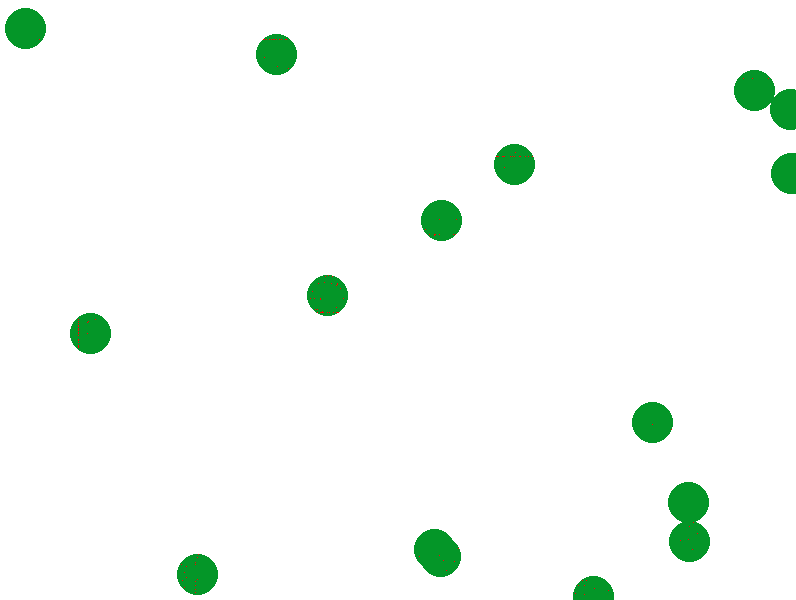
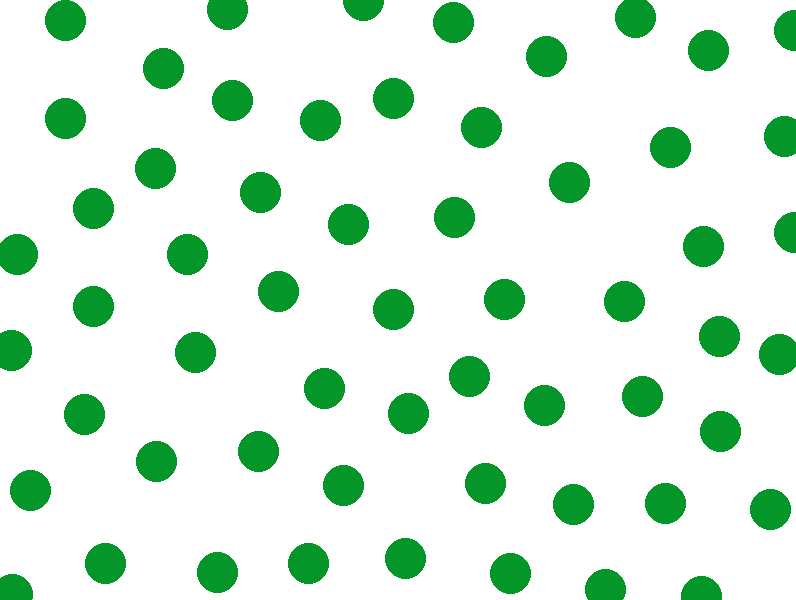
this is working! my poisson algorithm is super fast.

diff --git a/seurat.py b/seurat.py
@@ -5,48 +5,42 @@ import math
 import numpy as np
 import time
 
-def check_candidate(imagematrix, x_bound, y_bound, x0, y0, circle_radius, circle_mindist):
+def has_neighbors(imagematrix, x_bound, y_bound, x0, y0, circle_radius, circle_mindist):
     """
-    check whether a given point has any neighbors. Returns False if so.
+    check whether a given point has any neighbors. Returns True if so.
     """
     # print x_bound, y_bound, x0, y0, circle_radius, circle_mindist
     # grid check for the moment instead of the maximum efficiency perimeter check,
     # because i'm lazy. gonna see if this is fast enough
+    # print circle_radius
     
-    for x in     xrange(clip(x0 - circle_mindist, x_bound), clip(x0 + circle_mindist, x_bound), circle_radius - 1):
-        for y in xrange(clip(y0 - circle_mindist, y_bound), clip(y0 + circle_mindist, y_bound), circle_radius - 1):
+    # trigonometry: this is as large as you can space out the points (in a grid) while intersecting any circle placed on them
+    stepsize = int(math.floor(2**0.5 * circle_radius))
+    
+    # we add the last element to make sure we exhaust the entire relevant range
+    x_range = range(clip(x0 - circle_mindist, x_bound), clip(x0 + circle_mindist, x_bound), stepsize) + [clip(x0 + circle_mindist, x_bound)]
+    for x in x_range:
+        height = int(math.ceil((circle_mindist**2 - (x-x0)**2 )**0.5))
+        y_range = range(clip(y0 - height, y_bound), clip(y0 + height, y_bound), stepsize) + [clip(y0 + height, y_bound)]
+
+        for y in y_range:
             if np.isnan(imagematrix[x][y][0]):
+                #print imagematrix[x][y]
                 continue
             else:
                 # we didnt actually check if the datapoint is in the circle yet.
                 # we're doing this grid search so we have to.
+                # imagematrix[x][y] = [255,0,0]
+                return True
+                """
                 if ((x-x0)**2 + (y-y0)**2)**0.5 <= circle_mindist:
-                    imagematrix[x][y] = [255,0,0]
-                    return False
+
                 else:
+                    print imagematrix[x][y]
+                    imagematrix[x][y] = [0,0,255]
                     continue
-    
-    """
-    # we use a generator to iteratively check the points on the perimeter
-    # rather than generating them all at once, which would take much longer. 
-    #print ">>>", x_bound, y_bound
-    
-    for coords in circle_perimeter(x_bound, y_bound, x0, y0, radius):
-        for (x,y) in coords:
-            # we set all pixels in the imagematrix to None at first.
-            if np.isnan(imagematrix[x][y][0]):
-                #imagematrix[x][y] = [0,0,255]
-                continue
-            else:
-                imagematrix[x][y] = [255,0,0]
-                return False
-    
-    # gotta check inside as well
-    if not np.isnan(imagematrix[x0][y0][0]):
-        return False
-    return True
-    """
-    return True
+                """
+    return False
 
 def generate_random_point_around(seed, lower_bound_radius, upper_bound_radius):
     """
@@ -76,16 +70,20 @@ def get_poisson_points(image, mindist, radius):
     while to_process:
         pt = to_process.pop(random.randrange(len(to_process)))
         for _ in range(30):
-            new_point = generate_random_point_around(pt, r+mindist, 2*(r+mindist))
-            if (0 <= new_point[0] < h) and (0 <= new_point[1] < w) and check_candidate(output, h, w, new_point[0], new_point[1], radius, mindist):
+            new_point = generate_random_point_around(pt, (2*r)+mindist, (3*r)+mindist)
+            if (0 <= new_point[0] < h) and (0 <= new_point[1] < w) and (not has_neighbors(output, h, w, new_point[0], new_point[1], radius, radius+mindist)):
                 to_process.append(new_point)
-                circle_fill(output, h, w, new_point[0], new_point[1], radius)
+                circle_fill(output, h, w, new_point[0], new_point[1], 2*radius)
 
+    """
+    print    output.shape
     output = output.reshape((h,w,3))
+    print output.shape
+    """
     return output
 
 r = 20
-mindist = 250
+mindist = 50
 
 opened = Image.open("bear.jpg")
 opened_h = opened.size[0]
@@ -96,7 +94,7 @@ new = Image.new("RGB", opened.size, "white")
 for i in range(1):
     print i
     start = time.time()
-    imagelist = get_poisson_points(opened, mindist, 2*r)
+    imagelist = get_poisson_points(opened, mindist, r)
     end = time.time()
     print (end-start)
     #print imagelist.shape
